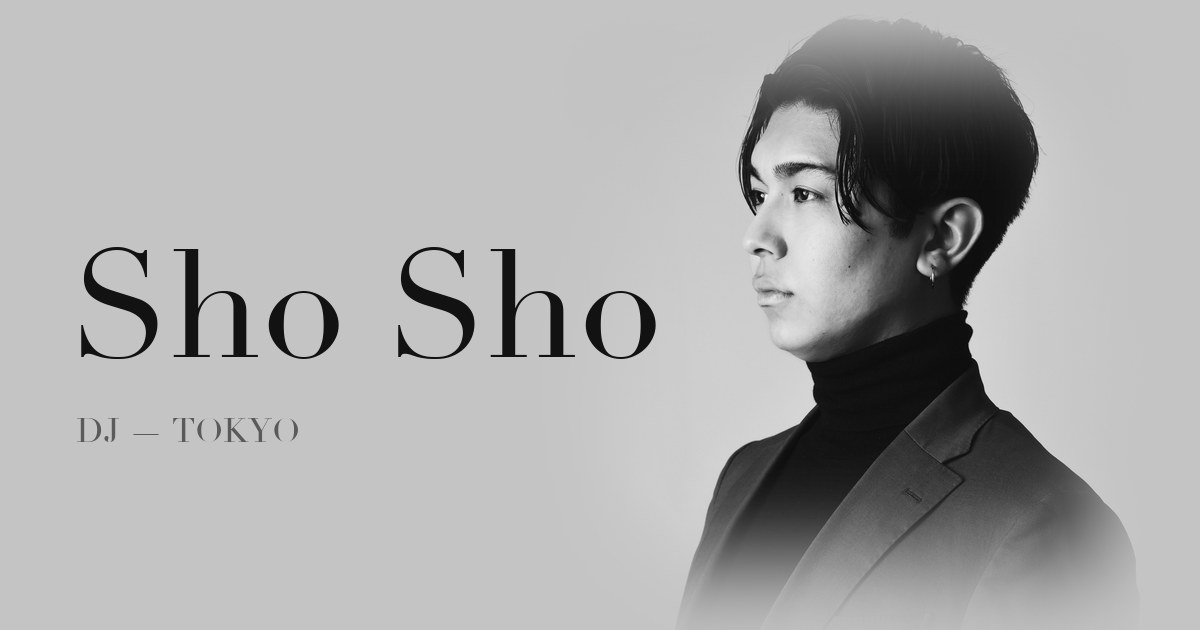
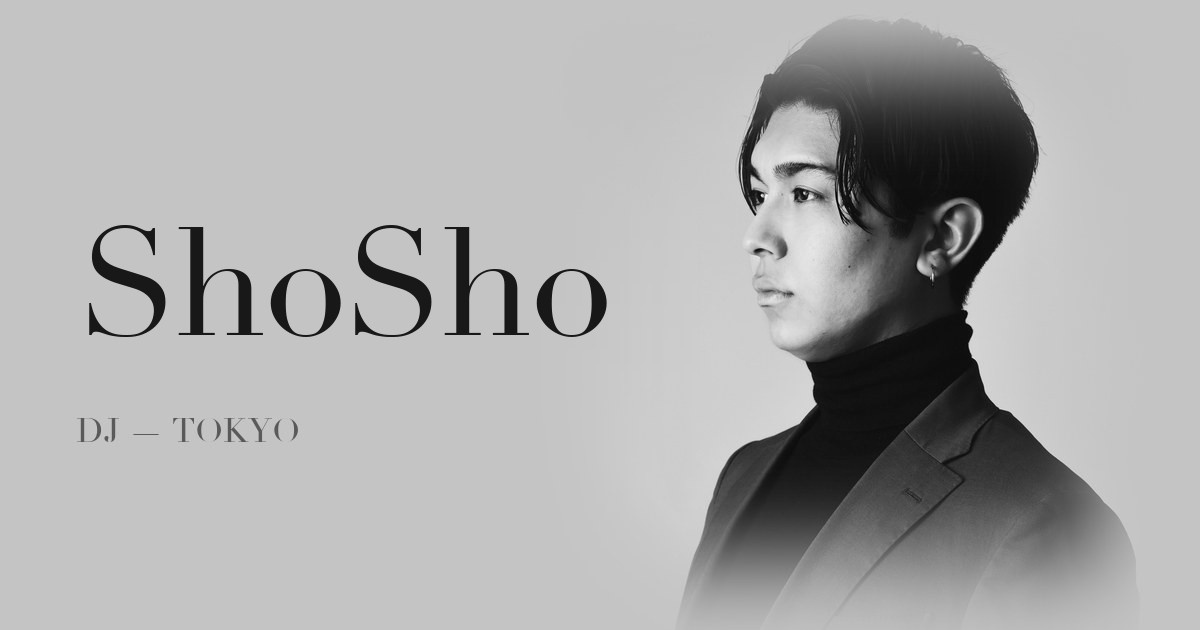
ShoSho: OG画像の表記をShoShoに更新

Changed region(s): [[0.0617, 0.3619, 0.555, 0.573]]

diff --git a/shosho/index.html b/shosho/index.html
@@ -14,7 +14,7 @@
 <meta property="og:url" content="https://noktoa.com/shosho/">
 <meta property="og:title" content="ShoSho（ショウショウ）DJ｜東京のホテル・ヨットのラウンジDJ">
 <meta property="og:description" content="ShoSho（ショウショウ）は東京を拠点に活動するDJ。ブルガリ ホテル 東京、1 Hotel Tokyo、アンダーズ 東京などのホテルやヨット、ブランドイベントでファッショナブルでグルーヴのあるサウンドを届けます。ブッキング・出演依頼はこちら。">
-<meta property="og:image" content="https://noktoa.com/shosho/assets/og.jpg">
+<meta property="og:image" content="https://noktoa.com/shosho/assets/og.jpg?v=2">
 <meta property="og:image:width" content="1200">
 <meta property="og:image:height" content="630">
 <meta property="og:image:alt" content="ShoShoのポートレート">
@@ -23,9 +23,9 @@
 <meta name="twitter:card" content="summary_large_image">
 <meta name="twitter:title" content="ShoSho（ショウショウ）DJ｜東京のホテル・ヨットのラウンジDJ">
 <meta name="twitter:description" content="ShoSho（ショウショウ）は東京を拠点に活動するDJ。ブルガリ ホテル 東京、1 Hotel Tokyo、アンダーズ 東京などのホテルやヨット、ブランドイベントでファッショナブルでグルーヴのあるサウンドを届けます。ブッキング・出演依頼はこちら。">
-<meta name="twitter:image" content="https://noktoa.com/shosho/assets/og.jpg">
+<meta name="twitter:image" content="https://noktoa.com/shosho/assets/og.jpg?v=2">
 <script type="application/ld+json">
-{"@context":"https://schema.org","@graph":[{"@type":"WebSite","@id":"https://noktoa.com/shosho/#website","url":"https://noktoa.com/shosho/","name":"ShoSho","inLanguage":["ja","en","zh-Hans"],"alternateName":"Sho Sho"},{"@type":"ProfilePage","@id":"https://noktoa.com/shosho/#profilepage","url":"https://noktoa.com/shosho/","name":"ShoSho — 東京のDJ","isPartOf":{"@id":"https://noktoa.com/shosho/#website"},"mainEntity":{"@id":"https://noktoa.com/shosho/#person"},"inLanguage":"ja","primaryImageOfPage":{"@type":"ImageObject","url":"https://noktoa.com/shosho/assets/og.jpg","width":1200,"height":630},"dateModified":"2026-10-26","about":{"@id":"https://noktoa.com/shosho/#person"}},{"@type":"Person","@id":"https://noktoa.com/shosho/#person","name":"ShoSho","alternateName":["Sho Sho","SHOSHO","ショウショウ","ショショ"],"jobTitle":"DJ","description":"ShoSho（ショウショウ）は東京を拠点に活動するDJ。ホテル、ヨット、ブランドイベントなどでファッショナブルでグルーヴのあるサウンドを届ける。 Tokyo-based DJ playing luxury hotels, yachts and brand events.","workLocation":{"@type":"City","name":"Tokyo"},"url":"https://noktoa.com/shosho/","image":"https://noktoa.com/shosho/assets/og.jpg","sameAs":["https://www.instagram.com/whereisshosho/"],"mainEntityOfPage":{"@id":"https://noktoa.com/shosho/#profilepage"},"knowsAbout":["DJ","Lounge DJ mix","Chill music","Hotel and yacht DJ","Event DJ"],"birthPlace":{"@type":"City","name":"Tokyo"},"disambiguatingDescription":"Not to be confused with other artists named Shosho/Shosh/Shosha. This is the Tokyo, Japan-based DJ \"ShoSho\" (Sho Sho, ショウショウ), Instagram @whereisshosho."},{"@type":"VideoObject","@id":"https://noktoa.com/shosho/#session","name":"【Lounge DJ Mix】DJ SHOSHO | NOKTOA Sessions at SeaBreeze Boat Service","description":"A one-hour Lounge / Chill DJ Mix recorded at SeaBreeze Boat Service's yacht marina in Yokohama, Japan, by ShoSho.","thumbnailUrl":["https://i.ytimg.com/vi/BuZnKNdDdj0/maxresdefault.jpg"],"uploadDate":"2026-09-23T15:39:33+09:00","duration":"PT1H6M15S","contentUrl":"https://www.youtube.com/watch?v=BuZnKNdDdj0","embedUrl":"https://www.youtube.com/embed/BuZnKNdDdj0","inLanguage":"en","creator":{"@type":"Organization","name":"NOKTOA","url":"https://www.youtube.com/@noktoa_jp"},"about":{"@id":"https://noktoa.com/shosho/#person"}},{"@type":"VideoObject","@id":"https://noktoa.com/shosho/#session2","name":"【Lounge DJ Mix】ShoSho | NOKTOA Sessions at SeaBreeze Boat Service Part.2","description":"Part.2 of the one-hour Lounge / Chill DJ Mix recorded at SeaBreeze Boat Service in Yokohama, Japan, by ShoSho.","thumbnailUrl":["https://i.ytimg.com/vi/rGwv7UPs-rA/maxresdefault.jpg"],"uploadDate":"2026-10-21T14:56:51+09:00","duration":"PT1H1M40S","contentUrl":"https://www.youtube.com/watch?v=rGwv7UPs-rA","embedUrl":"https://www.youtube.com/embed/rGwv7UPs-rA","inLanguage":"en","creator":{"@type":"Organization","name":"NOKTOA","url":"https://www.youtube.com/@noktoa_jp"},"about":{"@id":"https://noktoa.com/shosho/#person"}},{"@type":"BreadcrumbList","itemListElement":[{"@type":"ListItem","position":1,"name":"NOKTOA","item":"https://noktoa.com/"},{"@type":"ListItem","position":2,"name":"ShoSho","item":"https://noktoa.com/shosho/"}]},{"@type":"FAQPage","@id":"https://noktoa.com/shosho/#faq","mainEntity":[{"@type":"Question","name":"ShoSho（ショウショウ）とは？","acceptedAnswer":{"@type":"Answer","text":"ShoSho（ショウショウ）は東京を拠点に活動するDJです。ダンサーとして旅したLA・NYのナイトクラブで音楽に出会い、ラグジュアリーな現場で磨いた感覚で、ファッショナブルでグルーヴのあるサウンドを届けます。Instagramは @whereisshosho。"}},{"@type":"Question","name":"ShoShoはどこで出演していますか？","acceptedAnswer":{"@type":"Answer","text":"ブルガリ ホテル 東京、フォーシーズンズホテル東京、1 Hotel Tokyo、アンダーズ 東京、グランド ハイアット 東京、JW マリオット・ホテル東京、東京アメリカンクラブ、グランド ハイアット マニラ、ジャパン ボートショーなどの実績があります。"}},{"@type":"Question","name":"ShoShoのブッキング・出演依頼はどこからできますか？","acceptedAnswer":{"@type":"Answer","text":"公式サイト noktoa.com/shosho/ の Contact（Booking）フォームから依頼できます。ホテル、ヨット、ブランドイベント、ボートショーなどに対応します。"}},{"@type":"Question","name":"ShoShoのDJミックスはどこで聴けますか？","acceptedAnswer":{"@type":"Answer","text":"YouTubeの「NOKTOA Sessions at SeaBreeze Boat Service」（Lounge DJ Mix・Part.1は66分、Part.2は62分）で聴けます。横浜のシーブリーズボートサービスで収録した、作業・カフェ・ドライブ向けのラウンジミックスです。"}},{"@type":"Question","name":"同名のShoshoさんとは別人ですか？","acceptedAnswer":{"@type":"Answer","text":"はい。ShoShoは東京拠点の日本のDJで、ブルガリアなど海外で活動するShoshoとは別のアーティストです。"}}]}]}
+{"@context":"https://schema.org","@graph":[{"@type":"WebSite","@id":"https://noktoa.com/shosho/#website","url":"https://noktoa.com/shosho/","name":"ShoSho","inLanguage":["ja","en","zh-Hans"],"alternateName":"Sho Sho"},{"@type":"ProfilePage","@id":"https://noktoa.com/shosho/#profilepage","url":"https://noktoa.com/shosho/","name":"ShoSho — 東京のDJ","isPartOf":{"@id":"https://noktoa.com/shosho/#website"},"mainEntity":{"@id":"https://noktoa.com/shosho/#person"},"inLanguage":"ja","primaryImageOfPage":{"@type":"ImageObject","url":"https://noktoa.com/shosho/assets/og.jpg?v=2","width":1200,"height":630},"dateModified":"2026-10-26","about":{"@id":"https://noktoa.com/shosho/#person"}},{"@type":"Person","@id":"https://noktoa.com/shosho/#person","name":"ShoSho","alternateName":["Sho Sho","SHOSHO","ショウショウ","ショショ"],"jobTitle":"DJ","description":"ShoSho（ショウショウ）は東京を拠点に活動するDJ。ホテル、ヨット、ブランドイベントなどでファッショナブルでグルーヴのあるサウンドを届ける。 Tokyo-based DJ playing luxury hotels, yachts and brand events.","workLocation":{"@type":"City","name":"Tokyo"},"url":"https://noktoa.com/shosho/","image":"https://noktoa.com/shosho/assets/og.jpg?v=2","sameAs":["https://www.instagram.com/whereisshosho/"],"mainEntityOfPage":{"@id":"https://noktoa.com/shosho/#profilepage"},"knowsAbout":["DJ","Lounge DJ mix","Chill music","Hotel and yacht DJ","Event DJ"],"birthPlace":{"@type":"City","name":"Tokyo"},"disambiguatingDescription":"Not to be confused with other artists named Shosho/Shosh/Shosha. This is the Tokyo, Japan-based DJ \"ShoSho\" (Sho Sho, ショウショウ), Instagram @whereisshosho."},{"@type":"VideoObject","@id":"https://noktoa.com/shosho/#session","name":"【Lounge DJ Mix】DJ SHOSHO | NOKTOA Sessions at SeaBreeze Boat Service","description":"A one-hour Lounge / Chill DJ Mix recorded at SeaBreeze Boat Service's yacht marina in Yokohama, Japan, by ShoSho.","thumbnailUrl":["https://i.ytimg.com/vi/BuZnKNdDdj0/maxresdefault.jpg"],"uploadDate":"2026-09-23T15:39:33+09:00","duration":"PT1H6M15S","contentUrl":"https://www.youtube.com/watch?v=BuZnKNdDdj0","embedUrl":"https://www.youtube.com/embed/BuZnKNdDdj0","inLanguage":"en","creator":{"@type":"Organization","name":"NOKTOA","url":"https://www.youtube.com/@noktoa_jp"},"about":{"@id":"https://noktoa.com/shosho/#person"}},{"@type":"VideoObject","@id":"https://noktoa.com/shosho/#session2","name":"【Lounge DJ Mix】ShoSho | NOKTOA Sessions at SeaBreeze Boat Service Part.2","description":"Part.2 of the one-hour Lounge / Chill DJ Mix recorded at SeaBreeze Boat Service in Yokohama, Japan, by ShoSho.","thumbnailUrl":["https://i.ytimg.com/vi/rGwv7UPs-rA/maxresdefault.jpg"],"uploadDate":"2026-10-21T14:56:51+09:00","duration":"PT1H1M40S","contentUrl":"https://www.youtube.com/watch?v=rGwv7UPs-rA","embedUrl":"https://www.youtube.com/embed/rGwv7UPs-rA","inLanguage":"en","creator":{"@type":"Organization","name":"NOKTOA","url":"https://www.youtube.com/@noktoa_jp"},"about":{"@id":"https://noktoa.com/shosho/#person"}},{"@type":"BreadcrumbList","itemListElement":[{"@type":"ListItem","position":1,"name":"NOKTOA","item":"https://noktoa.com/"},{"@type":"ListItem","position":2,"name":"ShoSho","item":"https://noktoa.com/shosho/"}]},{"@type":"FAQPage","@id":"https://noktoa.com/shosho/#faq","mainEntity":[{"@type":"Question","name":"ShoSho（ショウショウ）とは？","acceptedAnswer":{"@type":"Answer","text":"ShoSho（ショウショウ）は東京を拠点に活動するDJです。ダンサーとして旅したLA・NYのナイトクラブで音楽に出会い、ラグジュアリーな現場で磨いた感覚で、ファッショナブルでグルーヴのあるサウンドを届けます。Instagramは @whereisshosho。"}},{"@type":"Question","name":"ShoShoはどこで出演していますか？","acceptedAnswer":{"@type":"Answer","text":"ブルガリ ホテル 東京、フォーシーズンズホテル東京、1 Hotel Tokyo、アンダーズ 東京、グランド ハイアット 東京、JW マリオット・ホテル東京、東京アメリカンクラブ、グランド ハイアット マニラ、ジャパン ボートショーなどの実績があります。"}},{"@type":"Question","name":"ShoShoのブッキング・出演依頼はどこからできますか？","acceptedAnswer":{"@type":"Answer","text":"公式サイト noktoa.com/shosho/ の Contact（Booking）フォームから依頼できます。ホテル、ヨット、ブランドイベント、ボートショーなどに対応します。"}},{"@type":"Question","name":"ShoShoのDJミックスはどこで聴けますか？","acceptedAnswer":{"@type":"Answer","text":"YouTubeの「NOKTOA Sessions at SeaBreeze Boat Service」（Lounge DJ Mix・Part.1は66分、Part.2は62分）で聴けます。横浜のシーブリーズボートサービスで収録した、作業・カフェ・ドライブ向けのラウンジミックスです。"}},{"@type":"Question","name":"同名のShoshoさんとは別人ですか？","acceptedAnswer":{"@type":"Answer","text":"はい。ShoShoは東京拠点の日本のDJで、ブルガリアなど海外で活動するShoshoとは別のアーティストです。"}}]}]}
 </script>
 <script>document.documentElement.classList.add('js')</script>
 <noscript><style>#gate{display:none!important}.ph img{opacity:1!important;filter:none!important;transform:none!important}h1 .ch{transform:none!important}.ghost,.ring,.sub{opacity:1!important}</style></noscript>
